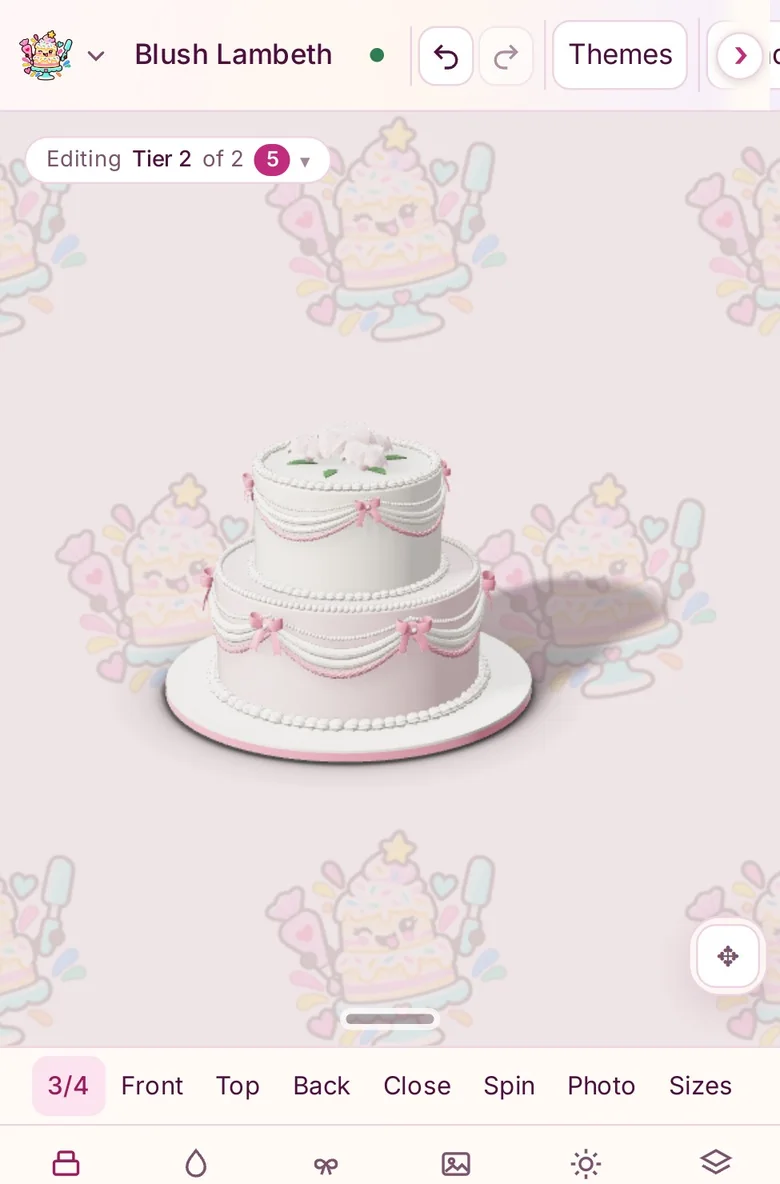
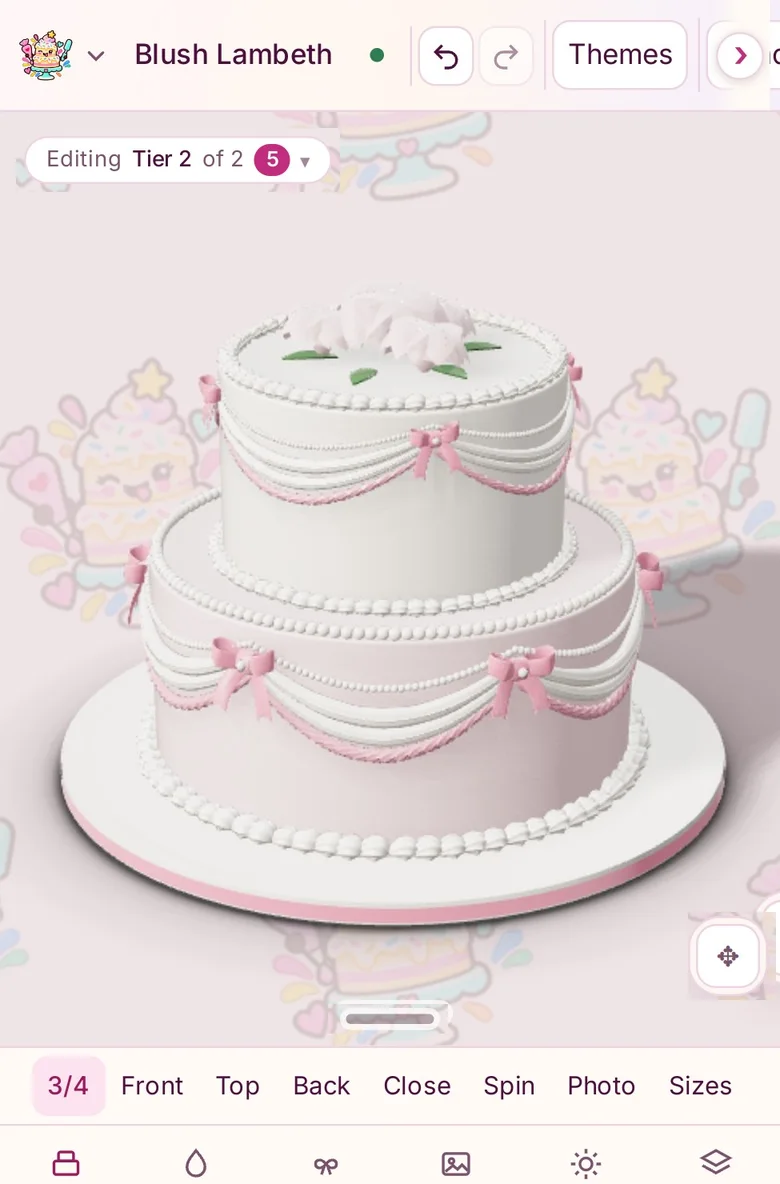
Home: Studio picture with the cake centered and closer
Claude-Session: https://claude.ai/code/session_016sN14k1jrfciDH4JHJywnC

diff --git a/index.html b/index.html
@@ -285,7 +285,7 @@ body.hp{background:#fffaf9}
     </form>
     <p class="alt">Or <a href="studio.html">open the Studio now</a> and design a cake today. No sign-up or download needed; it opens right in your web browser on your phone or computer.</p>
    </div>
-   <figure class="hshot"><picture><source media="(max-width:899px)" srcset="assets/home/studio-hero-phone.webp" type="image/webp"><source media="(max-width:899px)" srcset="assets/home/studio-hero-phone.jpg"><source srcset="assets/home/studio-hero-desktop.webp" type="image/webp"><img src="assets/home/studio-hero-desktop.jpg" alt="Dream Cake Studio with the Blush Lambeth open: the 3D cake in the middle and the design tools beside it" width="1440" height="900" fetchpriority="high"></picture></figure>
+   <figure class="hshot"><picture><source media="(max-width:899px)" srcset="assets/home/studio-hero-phone.webp?v=4" type="image/webp"><source media="(max-width:899px)" srcset="assets/home/studio-hero-phone.jpg?v=4"><source srcset="assets/home/studio-hero-desktop.webp?v=4" type="image/webp"><img src="assets/home/studio-hero-desktop.jpg?v=4" alt="Dream Cake Studio with the Blush Lambeth open: the 3D cake in the middle and the design tools beside it" width="1440" height="900" fetchpriority="high"></picture></figure>
   </div>
  </section>
 
